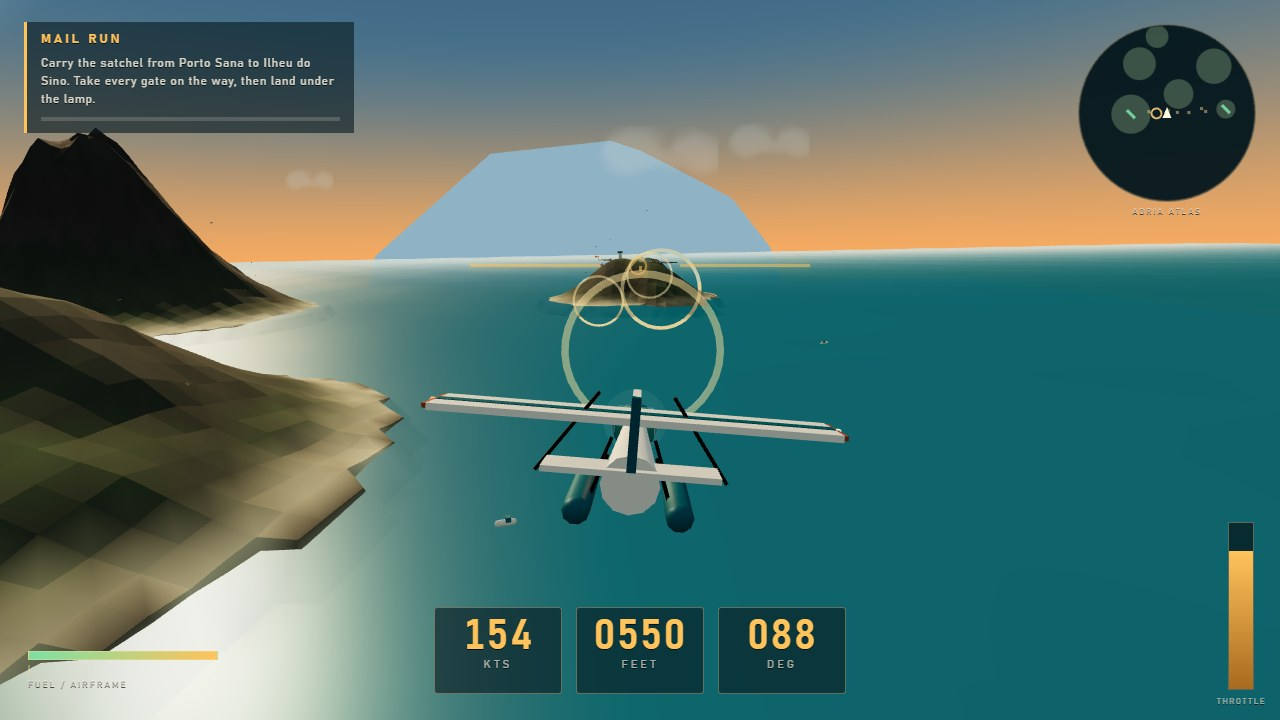
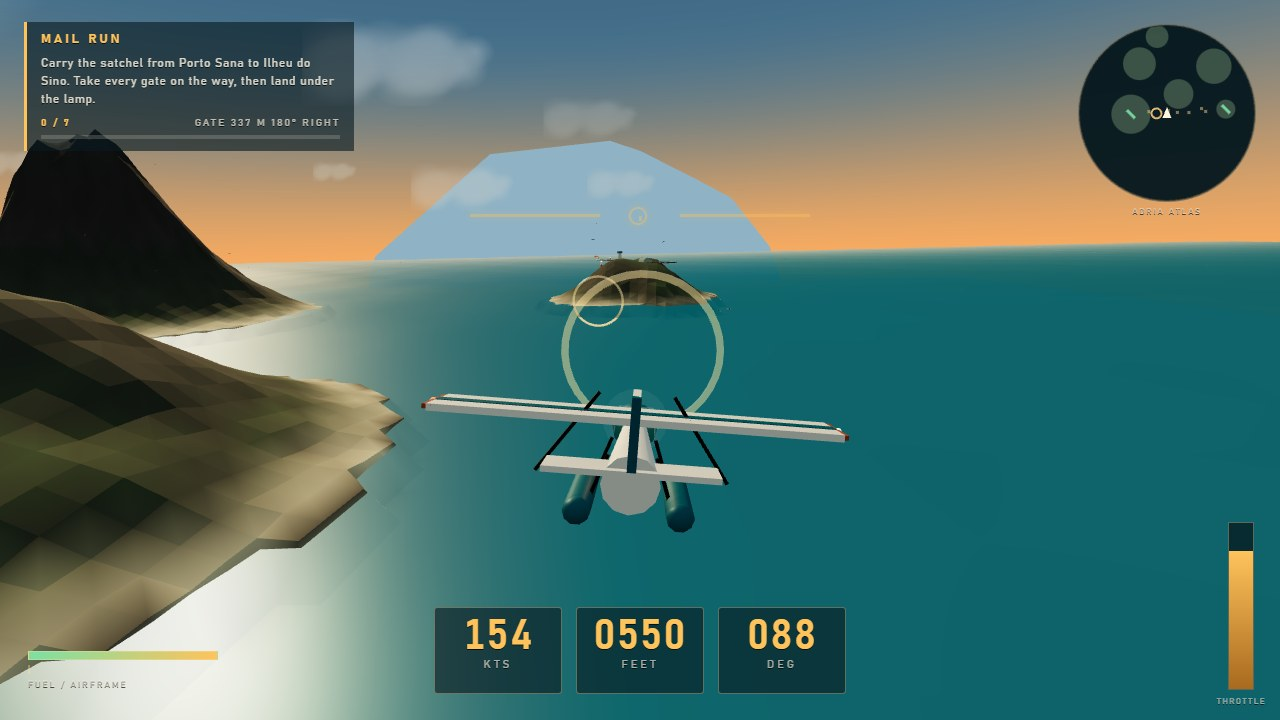
Navigation readout on the HUD, solo gates in shots, warmer haze, lit cockpit panel

diff --git a/game/src/shots.js b/game/src/shots.js
@@ -31,7 +31,7 @@ export const SHOTS = {
     if (!gate) return { kind: 'courier' };
     const from = behindGate(gate, 330, 58);
     const pose = aim(from, gate.position.clone().add(new THREE.Vector3(0, 12, 0)), { roll: -0.1, pitch: 0.02 });
-    return { ...pose, speed: 79, throttle: 0.83, camera: 'chase', kind: 'courier' };
+    return { ...pose, speed: 79, throttle: 0.83, camera: 'chase', kind: 'courier', gate };
   },
 
   // Final approach: the lamp, the numbers and the strip filling the windscreen.
@@ -41,10 +41,10 @@ export const SHOTS = {
     const pad = airstripPad(strip);
     const heading = strip.heading;
     // Approach from whichever end runs downhill to the sea, so the strip reads against water.
-    const endA = new THREE.Vector3(strip.x + Math.sin(heading) * (strip.length / 2 + 250), 0, strip.z + Math.cos(heading) * (strip.length / 2 + 250));
-    const endB = new THREE.Vector3(strip.x - Math.sin(heading) * (strip.length / 2 + 250), 0, strip.z - Math.cos(heading) * (strip.length / 2 + 250));
+    const endA = new THREE.Vector3(strip.x + Math.sin(heading) * (strip.length / 2 + 150), 0, strip.z + Math.cos(heading) * (strip.length / 2 + 150));
+    const endB = new THREE.Vector3(strip.x - Math.sin(heading) * (strip.length / 2 + 150), 0, strip.z - Math.cos(heading) * (strip.length / 2 + 150));
     const from = groundAt(endA.x, endA.z) < groundAt(endB.x, endB.z) ? endA : endB;
-    from.y = pad + 26;
+    from.y = pad + 19;
     const to = new THREE.Vector3(strip.x, pad + 3, strip.z);
     const pose = aim(from, to, { roll: 0.05, pitch: -0.03 });
     return { ...pose, speed: 56, throttle: 0.46, camera: 'cockpit', kind: 'medevac' };
@@ -56,16 +56,16 @@ export const SHOTS = {
     if (!gate) return { kind: 'survey' };
     const from = behindGate(gate, 420, 128);
     const pose = aim(from, gate.position.clone().add(new THREE.Vector3(0, 16, 0)), { roll: 0.18, pitch: 0.03 });
-    return { ...pose, speed: 84, throttle: 0.95, camera: 'chase', kind: 'survey' };
+    return { ...pose, speed: 84, throttle: 0.95, camera: 'chase', kind: 'survey', gate };
   },
 
   // Windward cliffs: the courier on the coast run, sea and rock below the wing.
   cliffs: ({ course }) => {
-    const gate = course?.gates[5] ?? course?.gates[4] ?? null;
+    const gate = pickLonelyGate(course, 3) ?? course?.gates[5] ?? null;
     if (!gate) return { kind: 'courier' };
-    const from = behindGate(gate, 320, 54);
-    const pose = aim(from, gate.position.clone().add(new THREE.Vector3(0, -14, 0)), { roll: -0.17, pitch: 0.02 });
-    return { ...pose, speed: 76, throttle: 0.72, camera: 'chase', kind: 'courier' };
+    const from = behindGate(gate, 560, 74);
+    const pose = aim(from, gate.position.clone().add(new THREE.Vector3(0, 16, 0)), { roll: -0.14, pitch: 0.02 });
+    return { ...pose, speed: 76, throttle: 0.72, camera: 'chase', kind: 'courier', gate };
   },
 };
 
@@ -78,6 +78,25 @@ function pickLowGate(course, from) {
     const height = groundAt(gate.position.x, gate.position.z);
     if (height < bestHeight) {
       bestHeight = height;
+      best = gate;
+    }
+  }
+  return best;
+}
+
+// The gate with the most room around it, so no second ring crops into the frame.
+function pickLonelyGate(course, from) {
+  if (!course) return null;
+  let best = null;
+  let bestGap = -1;
+  for (const gate of course.gates.slice(from)) {
+    let gap = Infinity;
+    for (const other of course.gates) {
+      if (other === gate) continue;
+      gap = Math.min(gap, other.position.distanceTo(gate.position));
+    }
+    if (gap > bestGap) {
+      bestGap = gap;
       best = gate;
     }
   }

diff --git a/game/src/render/cockpit.js b/game/src/render/cockpit.js
@@ -7,7 +7,7 @@ export function buildCockpit() {
   const group = new THREE.Group();
   group.position.set(0, 0, 0);
 
-  const shell = new THREE.MeshStandardMaterial({ color: '#3c464c', roughness: 0.7, metalness: 0.2, side: THREE.DoubleSide });
+  const shell = new THREE.MeshStandardMaterial({ color: '#48545b', roughness: 0.66, metalness: 0.18, side: THREE.DoubleSide, emissive: '#1d262a', emissiveIntensity: 0.85 });
   const trim = new THREE.MeshStandardMaterial({ color: '#151b1d', roughness: 0.55, metalness: 0.4 });
   const panelFluoro = new THREE.MeshStandardMaterial({ color: '#121a1c', emissive: '#7d4a16', emissiveIntensity: 0.42, roughness: 0.6 });
 
@@ -24,7 +24,7 @@ export function buildCockpit() {
   group.add(shield, dash, panel);
 
   // Six lit dials on the panel, and the switch row under them.
-  const dialGeo = new THREE.CircleGeometry(0.03, 14);
+  const dialGeo = new THREE.CircleGeometry(0.036, 14);
   const dialLit = new THREE.MeshBasicMaterial({ color: '#ffd79a' });
   for (let i = 0; i < 6; i++) {
     const dial = new THREE.Mesh(dialGeo, dialLit);
@@ -55,7 +55,7 @@ export function buildCockpit() {
   group.add(header);
 
   // Panel glow so the cockpit is the brightest thing at dusk.
-  const glow = new THREE.PointLight('#ffb469', 1.5, 2.2, 2);
+  const glow = new THREE.PointLight('#ffb469', 3.2, 3, 2);
   glow.position.set(0, -0.42, -0.62);
   group.add(glow);
 

diff --git a/game/src/ui/hud.js b/game/src/ui/hud.js
@@ -17,6 +17,8 @@ export function createHud(mission) {
     name: document.getElementById('m-name'),
     text: document.getElementById('m-text'),
     progress: document.querySelector('#m-progress i'),
+    count: document.getElementById('m-count'),
+    bearing: document.getElementById('m-bearing'),
     banner: document.getElementById('banner'),
     garble: document.getElementById('garble'),
     gauges: [...document.querySelectorAll('.gauge')],
@@ -49,6 +51,16 @@ export function createHud(mission) {
 
       const fraction = totalGates > 0 ? gatesDone / totalGates : 0;
       el.progress.style.width = `${Math.round(fraction * 100)}%`;
+      el.count.textContent = `${gatesDone} / ${totalGates}`;
+      const gate = course?.gates[course.index];
+      if (gate) {
+        const distance = Math.round(gate.position.distanceTo(plane.position));
+        const bearing = ((Math.atan2(gate.position.x - plane.position.x, -(gate.position.z - plane.position.z)) * 180) / Math.PI + 360) % 360;
+        const off = Math.round((bearing - headingFromQuaternion(plane.quaternion) + 540) % 360 - 180);
+        el.bearing.textContent = `GATE ${distance} M ${off === 0 ? 'AHEAD' : `${Math.abs(off)}° ${off < 0 ? 'LEFT' : 'RIGHT'}`}`;
+      } else {
+        el.bearing.textContent = 'ALL GATES CLEAR';
+      }
       this.drawMap(plane, course);
     },
     drawMap(plane, course) {

diff --git a/game/ui/hud.css b/game/ui/hud.css
@@ -39,11 +39,11 @@ html, body {
 .pit-horizon {
   position: absolute;
   left: 50%;
-  top: 37%;
+  top: 30%;
   width: 340px;
   height: 300px;
   margin: -120px 0 0 -170px;
-  opacity: 0.55;
+  opacity: 0.4;
 }
 .pit-horizon::before, .pit-horizon::after {
   content: "";
@@ -150,6 +150,8 @@ html, body {
 }
 .mission h2 { margin: 0; font-size: 13px; letter-spacing: 0.22em; color: var(--amber); text-transform: uppercase; }
 .mission p { margin: 6px 0 9px; font-size: 12px; line-height: 1.5; letter-spacing: 0.05em; color: rgba(246, 241, 226, 0.86); }
+.navline { display: flex; justify-content: space-between; font-size: 10px; letter-spacing: 0.2em; color: var(--amber); margin-bottom: 6px; }
+.navline span { color: rgba(246, 241, 226, 0.72); }
 .progress { height: 4px; background: rgba(246, 241, 226, 0.18); }
 .progress i { display: block; height: 100%; width: 0; background: var(--amber); transition: width 220ms linear; }
 

diff --git a/game/index.html b/game/index.html
@@ -23,7 +23,7 @@
   <div class="tape"><div id="g-fuel" class="fuel"></div><div id="g-dmg" class="dmg"></div><span>FUEL / AIRFRAME</span></div>
   <div class="throttle"><div id="g-thr"></div><span>THROTTLE</span></div>
   <div class="minimap"><canvas id="map" width="176" height="176"></canvas><span>ADRIA ATLAS</span></div>
-  <div class="mission"><h2 id="m-name">—</h2><p id="m-text">—</p><div id="m-progress" class="progress"><i></i></div></div>
+  <div class="mission"><h2 id="m-name">—</h2><p id="m-text">—</p><div class="navline"><b id="m-count">0 / 0</b><span id="m-bearing">GATE —</span></div><div id="m-progress" class="progress"><i></i></div></div>
   <div id="banner" class="banner"></div>
   <div class="garble" id="garble"></div>
 </div>

diff --git a/game/src/game/gates.js b/game/src/game/gates.js
@@ -83,6 +83,11 @@ export function buildCourse(scene, route) {
         gate.ring.userData.light.intensity = active ? 70 : 10;
       });
     },
+    // For a screenshot: show only the gate being lined up and the one after it.
+    solo(keep) {
+      const next = gates[gates.indexOf(keep) + 1];
+      for (const gate of gates) gate.group.visible = gate === keep || gate === next;
+    },
     check(plane) {
       const gate = gates[this.index];
       if (!gate || gate.passed) return null;

diff --git a/game/src/render/scene.js b/game/src/render/scene.js
@@ -129,7 +129,7 @@ export function buildSky(scene) {
   }
   scene.add(clouds);
 
-  scene.fog = new THREE.Fog('#cfd8d2', WORLD.fogNear, WORLD.fogFar);
+  scene.fog = new THREE.Fog('#c6c2ad', WORLD.fogNear, WORLD.fogFar);
   scene.background = new THREE.Color('#8fb2c4');
   return { sun, clouds };
 }

diff --git a/game/src/main.js b/game/src/main.js
@@ -269,6 +269,7 @@ if (shot) {
   plane.speed = pose.speed;
   plane.setThrottle(pose.throttle);
   rig.mode = pose.camera;
+  if (pose.gate) course.solo(pose.gate);
   rig.update(plane, 0.016, 0.5, true);
   state = 'shot';
   hud.refresh(plane, course, 0, course.gates.length);

diff --git a/game/src/config.js b/game/src/config.js
@@ -6,7 +6,7 @@ export const WORLD = {
   grid: 200,           // heightfield resolution per side
   maxHeight: 620,
   fogNear: 1500,
-  fogFar: 7200,
+  fogFar: 9600,
   sunElevation: 0.19,  // golden hour
 };
 
